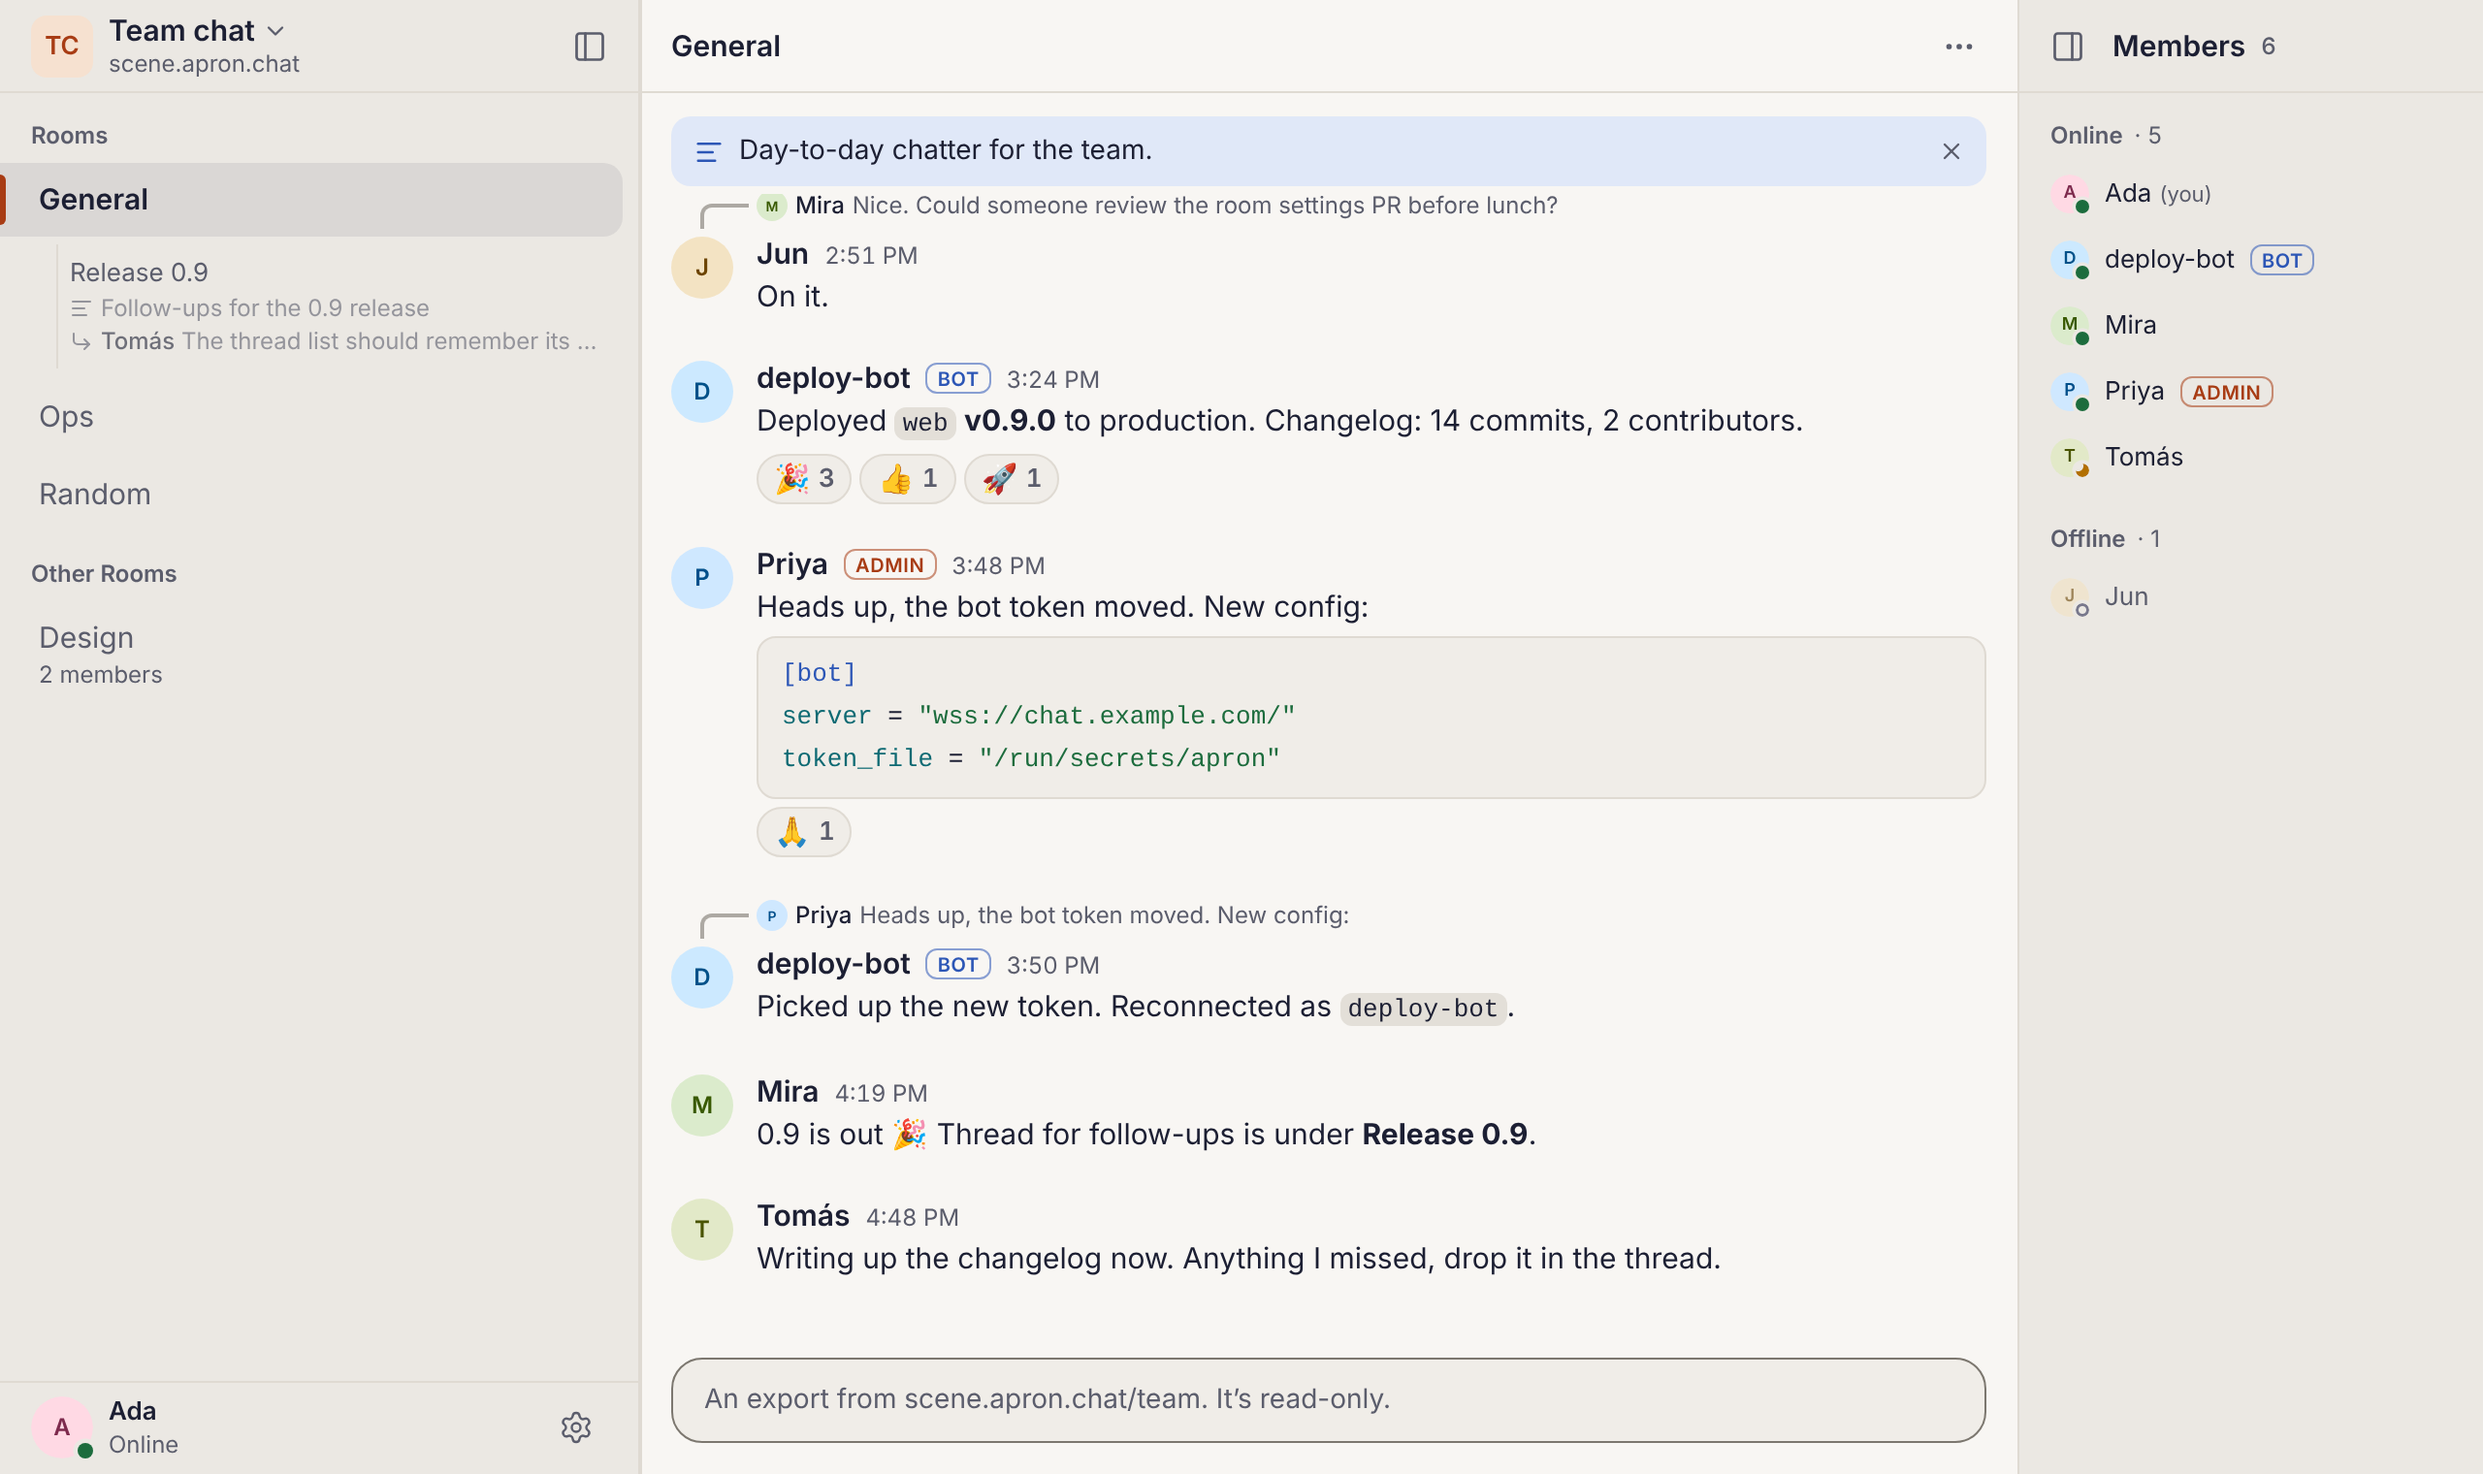
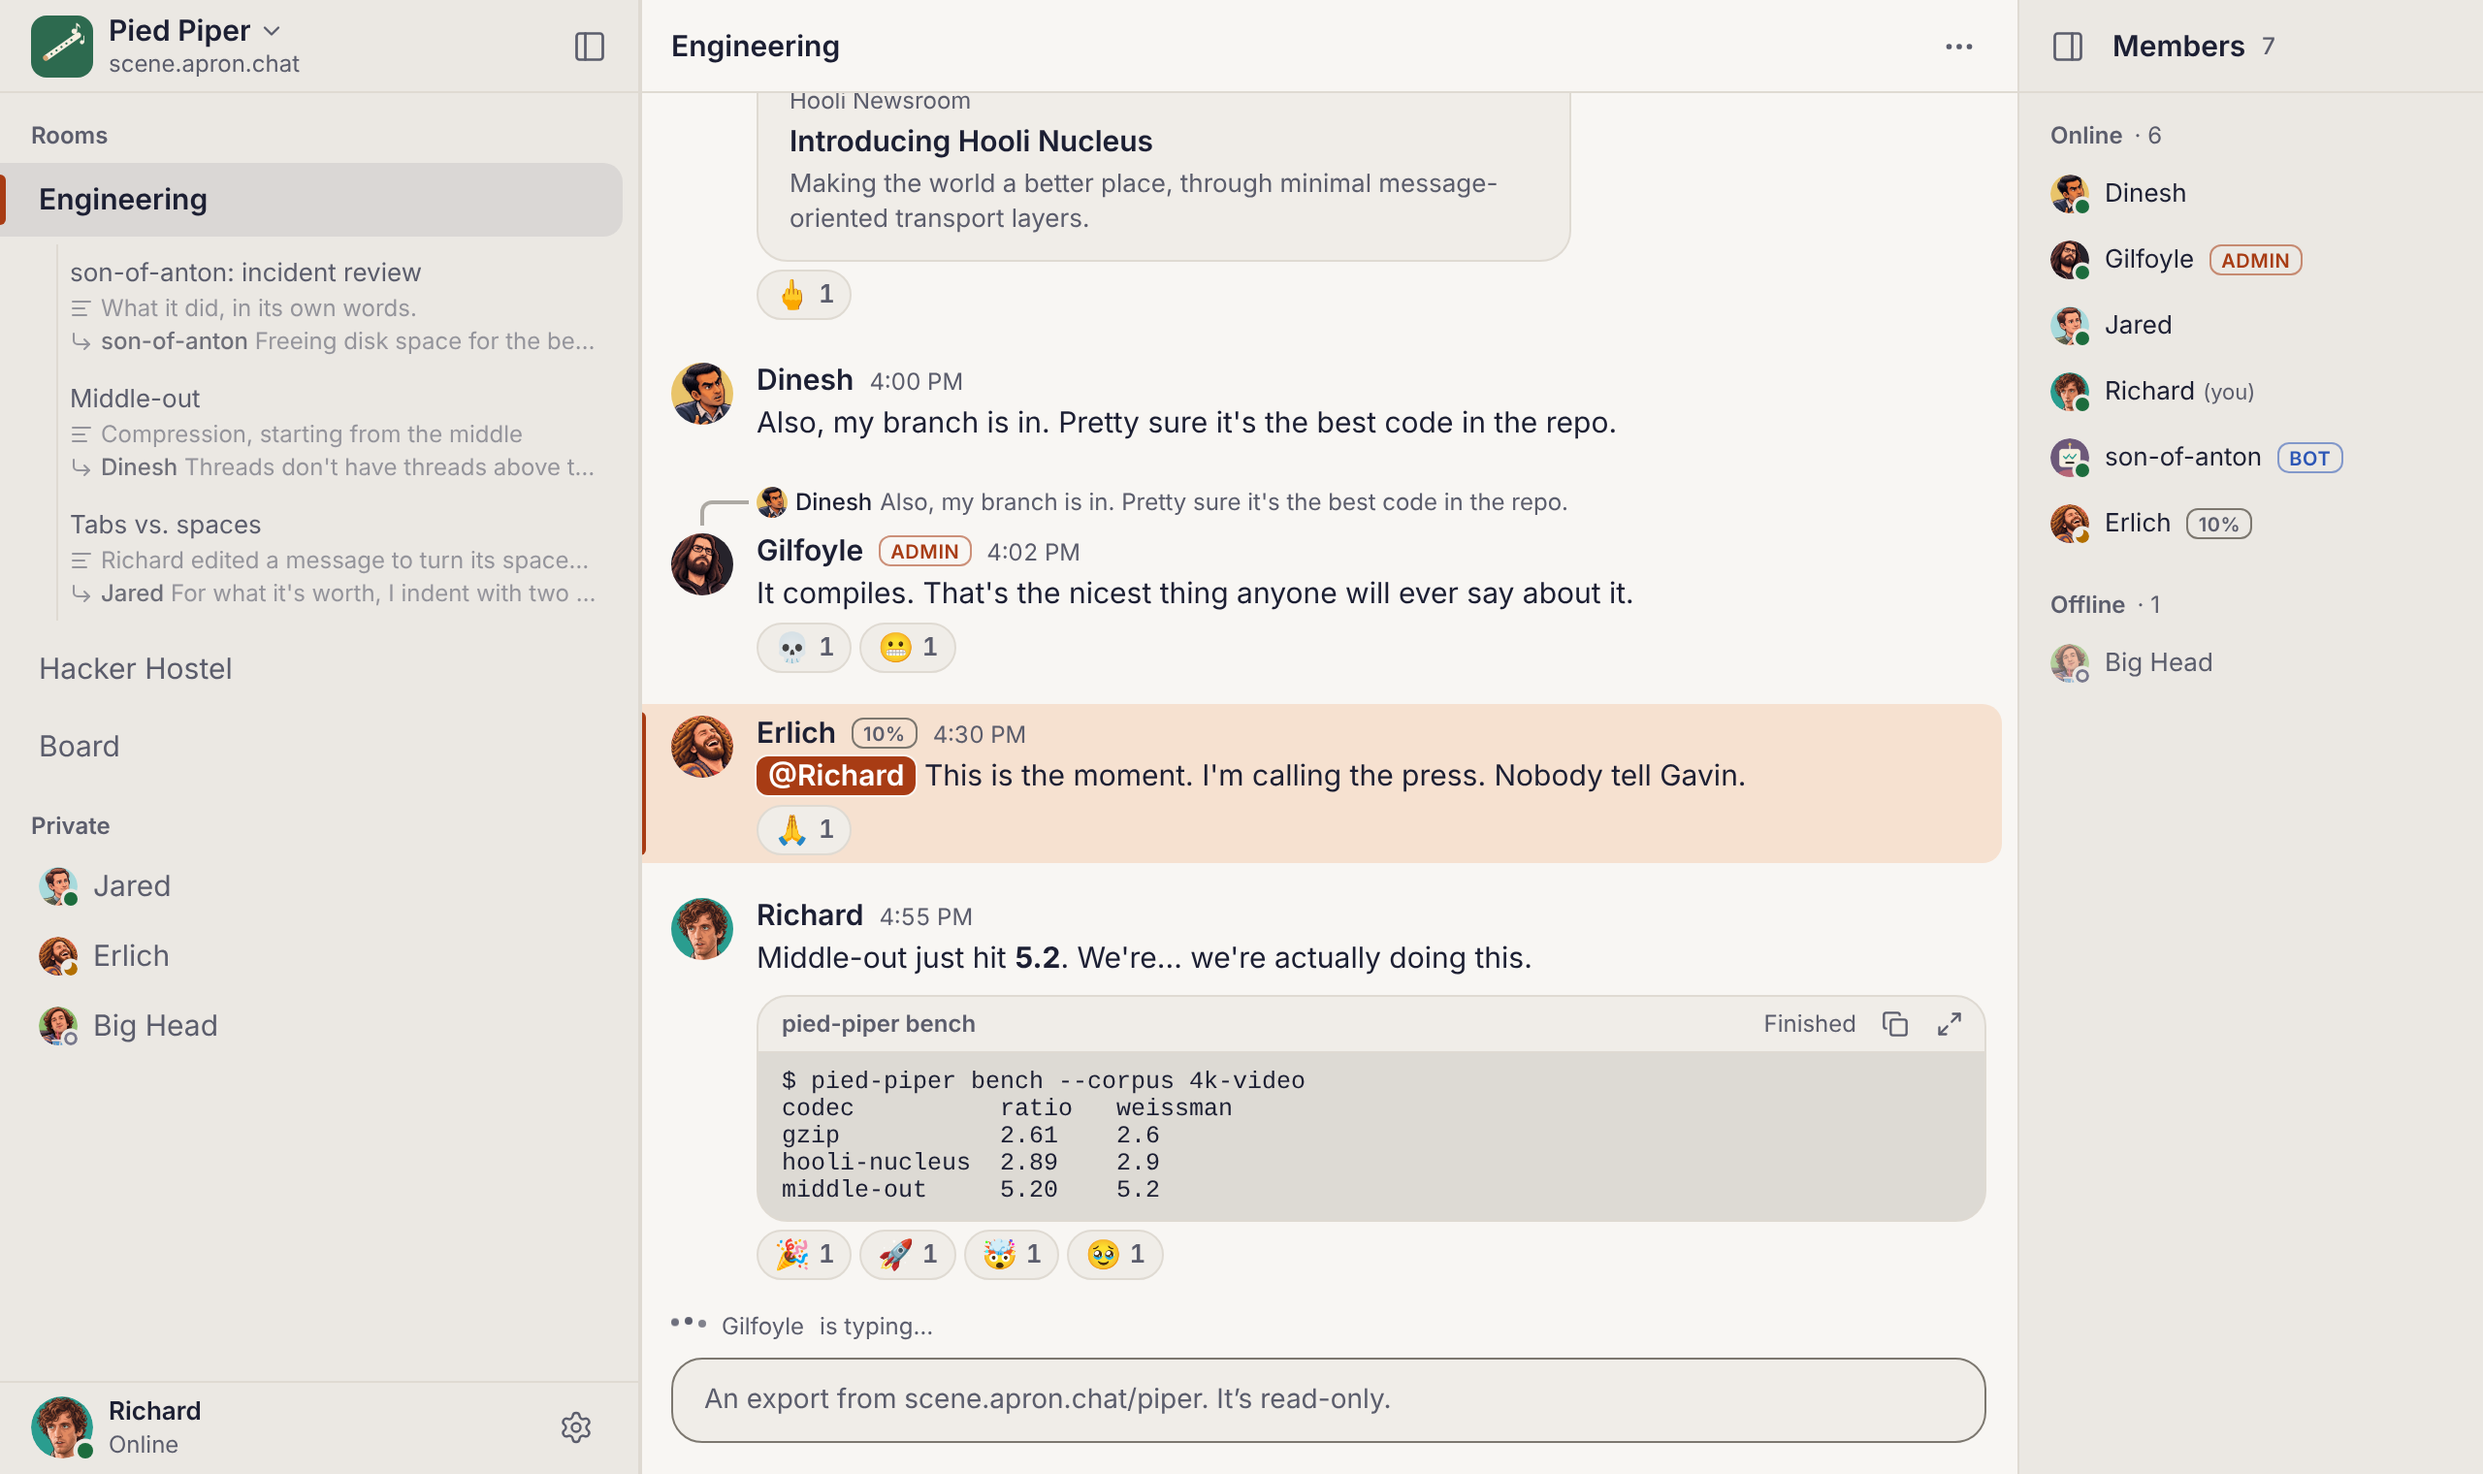
Show the piper scene as Team chat, the first screenshot
The landing page's first shot, Team chat, is now Pied Piper's Engineering
room in light mode: threads and DMs, the cast's avatars, admin and bot
badges, a reply, a mention, a finished terminal, reactions, someone typing
and presence. Its caption and alt text say so.

Claude-Session: https://claude.ai/code/session_01YRJidDEXJ776DVxpwsYwrv

diff --git a/templates/index.html b/templates/index.html
@@ -61,8 +61,8 @@
 <div class="demo">
 <div class="gallery">
 <figure class="shot" id="shot-team">
-<button type="button" class="zoom" aria-label="View full size: team chat"><img src="/images/demo.png" width="1280" height="760" alt="The Apron web client: a General room with a thread, bot and admin badges, a code block, reactions, and a member list with presence"></button>
-<figcaption><b>Team chat.</b> Rooms, a thread, bots, replies, a code block, reactions and presence.</figcaption>
+<button type="button" class="zoom" aria-label="View full size: team chat"><img src="/images/demo.png" width="1280" height="760" alt="The Apron web client: Pied Piper's Engineering room, with threads, avatars, admin and bot badges, a reply, a mention, a finished terminal, reactions, someone typing, and a member list with presence"></button>
+<figcaption><b>Team chat.</b> Rooms, threads, DMs, bots, replies, mentions, a terminal, reactions and presence.</figcaption>
 </figure>
 <figure class="shot" id="shot-agent">
 <button type="button" class="zoom" aria-label="View full size: coding agents"><img src="/images/demo-agent.png" width="1280" height="760" loading="lazy" alt="A coding agent, Patch, in a thread: a finished test run that reproduced a bug, and a live terminal still running the full suite"></button>

diff --git a/screenshot/README.md b/screenshot/README.md
@@ -14,7 +14,7 @@ messages read as recent.
 
 | shot | scene | file | shows |
 |---|---|---|---|
-| `team` | [team](https://scene.apron.chat/team) | `demo.png` | rooms, a thread, bot and admin badges, replies, a code block, reactions, presence |
+| `team` | [piper](https://scene.apron.chat/piper) | `demo.png` | the first shot, Team chat: rooms, threads and DMs, avatars, bot and admin badges, a reply, a mention, a terminal, reactions, typing, presence |
 | `agent` | [agent](https://scene.apron.chat/agent) | `demo-agent.png` | a coding agent in a thread, with a finished and a live terminal |
 | `rich` | [rich](https://scene.apron.chat/rich) | `demo-rich.png` | an uploaded image, a mention, a link preview, reactions, typing |
 | `og` | [piper](https://scene.apron.chat/piper) | `og.png` | dark, at 1200x630: the link preview image (`og:image`), with avatars, a mention, a terminal, replies, a bot, threads and DMs |
